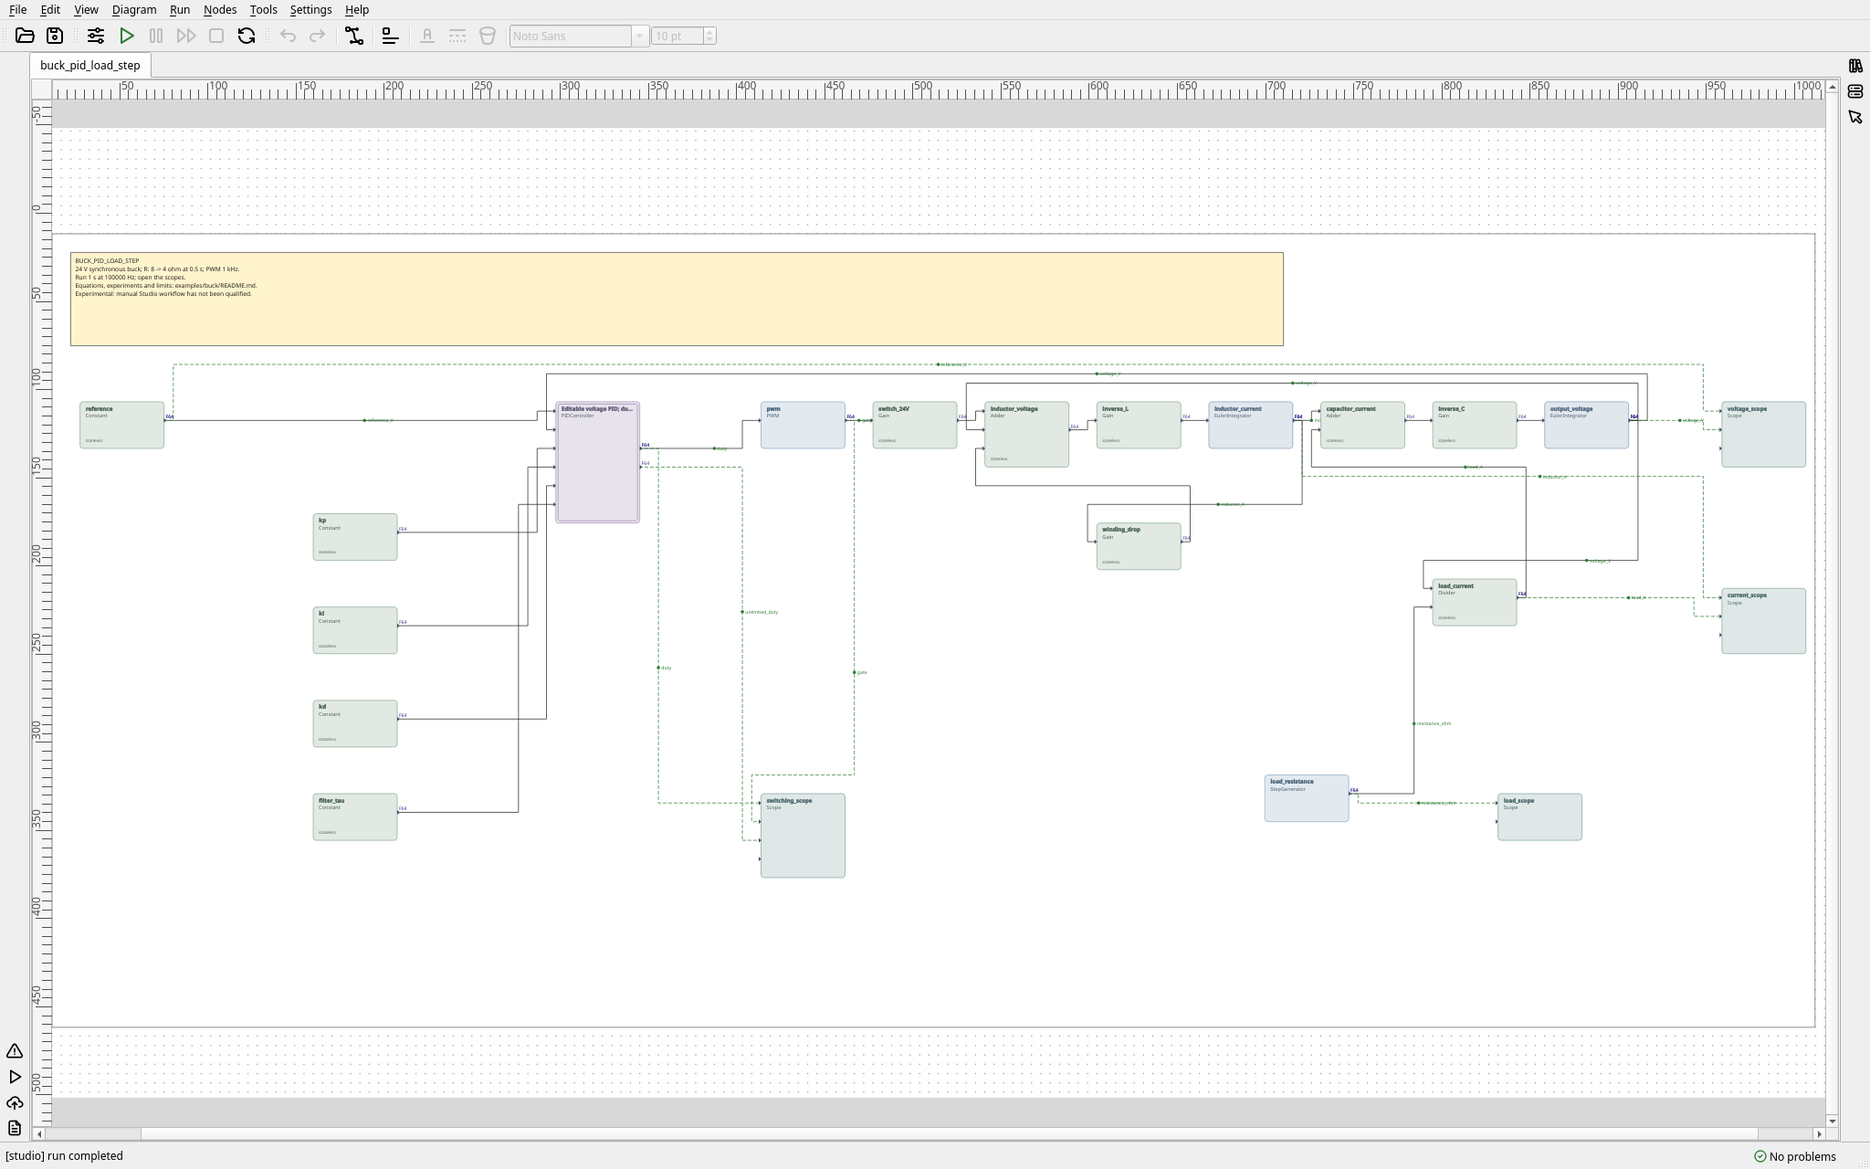
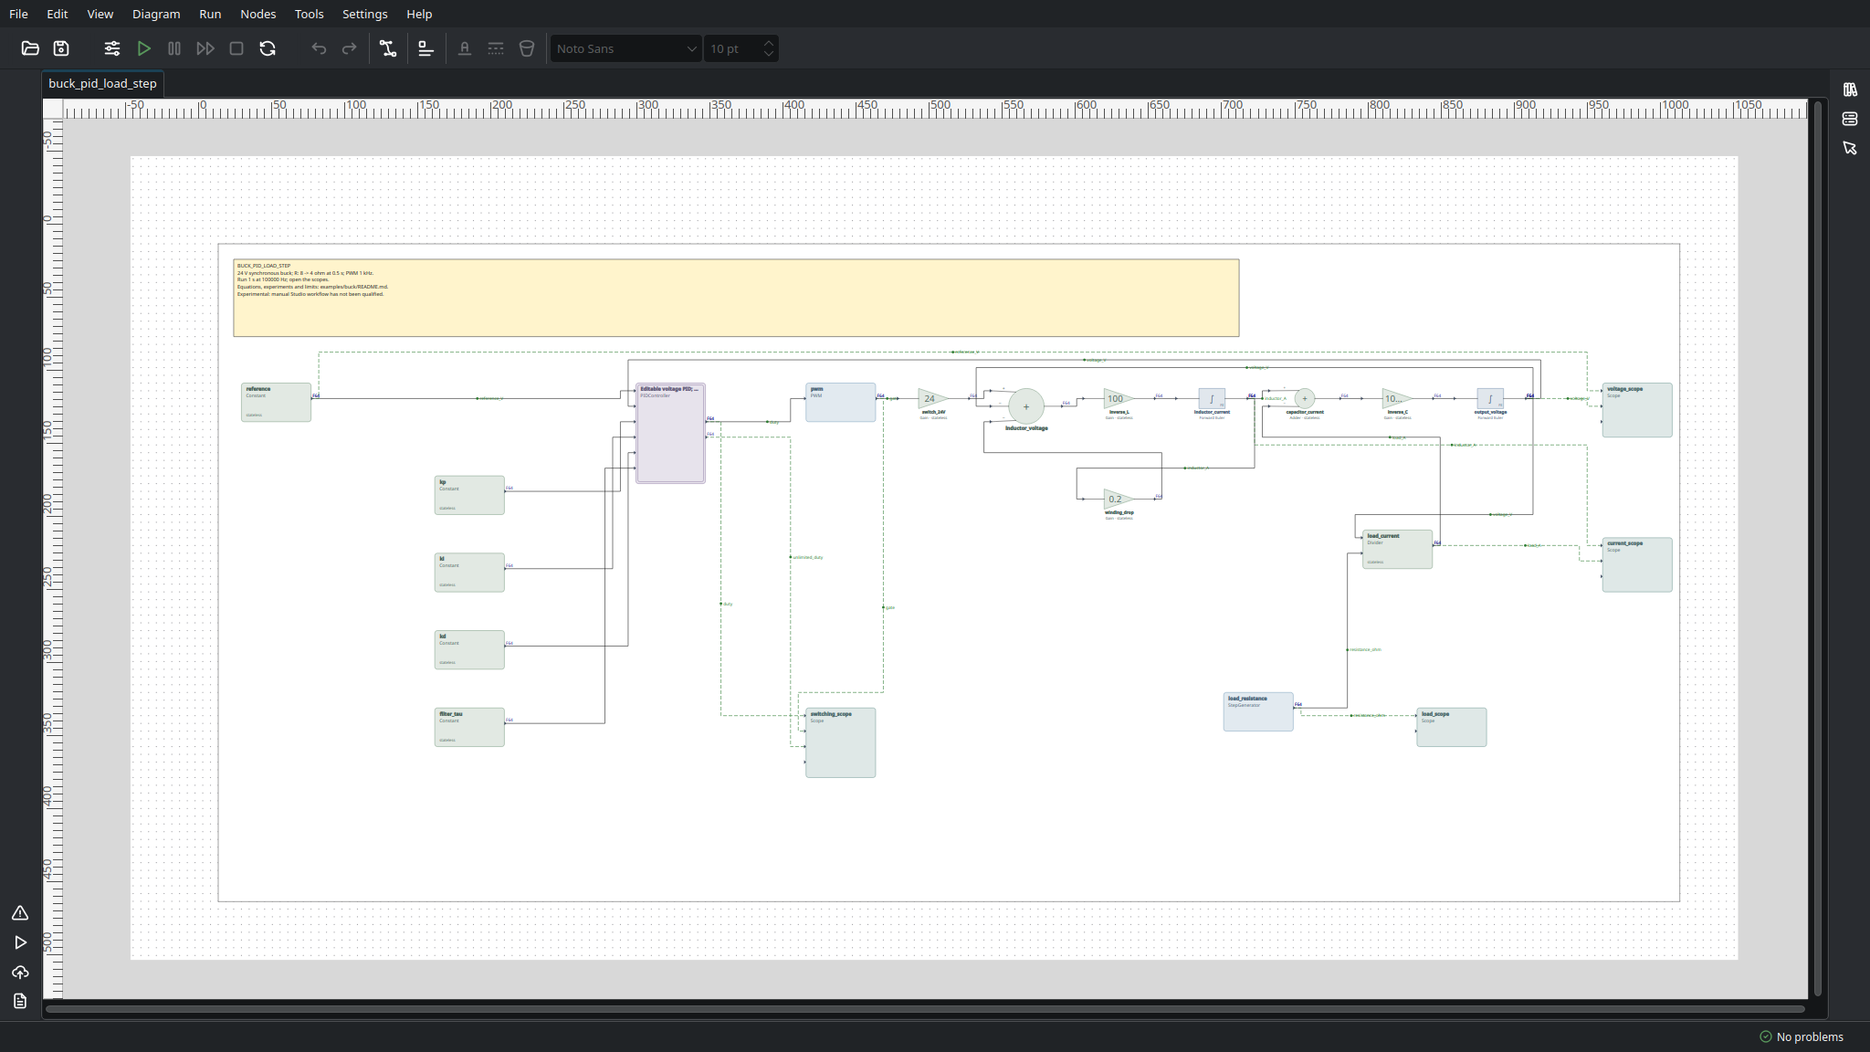
Refresh GitHub README and Studio screenshot tour

diff --git a/s7l2/s7studio/tests/gui/workflows_test.cpp b/s7l2/s7studio/tests/gui/workflows_test.cpp
@@ -261,7 +261,7 @@ private slots:
     void init() {
         QSettings{}.clear();
         window_ = std::make_unique<TestWindow>();
-        window_->resize(1100, 750);
+        window_->resize(qEnvironmentVariableIsSet("S7_README_SCREENSHOTS") ? QSize(2048, 1152) : QSize(1100, 750));
         window_->show();
         QVERIFY(QTest::qWaitForWindowExposed(window_.get()));
     }
@@ -328,15 +328,20 @@ private slots:
         for (int i = 0; i < contents->count(); ++i) matches += !contents->item(i)->isHidden();
         QVERIFY(matches >= 2);
         search->clear();
+        for (int i = 0; i < contents->count(); ++i)
+            if (contents->item(i)->text().startsWith("Integrators, delays")) contents->setCurrentRow(i);
         browser->setSource(QUrl("qrc:/s7studio/help/docs/INTEGRATORS.md"), QTextDocument::MarkdownResource);
+        if (qEnvironmentVariableIsSet("S7_README_SCREENSHOTS")) help->resize(1120, 1100);
         QVERIFY(browser->toPlainText().contains("BackwardEulerIntegrator"));
         QVERIFY2(browser->toPlainText().contains("frequency warping", Qt::CaseInsensitive),
                  qPrintable(browser->toPlainText().right(4000)));
         capture(help, "integrators", true);
         const auto mapping = browser->document()->find("Exact sampling and numerical s-to-z maps");
         QVERIFY(!mapping.isNull());
-        browser->setTextCursor(mapping);
+        auto position = mapping; position.clearSelection();
+        browser->setTextCursor(position);
         browser->ensureCursorVisible();
+        browser->verticalScrollBar()->setValue(browser->verticalScrollBar()->value() + browser->cursorRect().top() - 12);
         capture(help, "integrator-mappings", true);
         QVERIFY(QMetaObject::invokeMethod(browser, "anchorClicked", Qt::DirectConnection,
             Q_ARG(QUrl, QUrl("INTEGRATOR_REFERENCES.md"))));
@@ -346,6 +351,8 @@ private slots:
             QImage image(QStringLiteral(":/s7studio/help/docs/images/%1.png").arg(QString::fromUtf8(name)));
             QVERIFY2(!image.isNull(), name);
         }
+        for (int i = 0; i < contents->count(); ++i)
+            if (contents->item(i)->text() == "Basic block symbols") contents->setCurrentRow(i);
         browser->setSource(QUrl("qrc:/s7studio/help/docs/DIAGRAM_SYMBOLS.md"), QTextDocument::MarkdownResource);
         QVERIFY(browser->toPlainText().contains("current input"));
         QVERIFY(browser->toPlainText().contains("R/(1−R)"));
@@ -2311,6 +2318,7 @@ private slots:
     void bundledExamplesRunAndRender() {
         if (qEnvironmentVariableIsEmpty("S7_GUI_EXAMPLES")) QSKIP("Bundled examples run in the s7studio_gui_examples tests");
         QFETCH(QString, diagram);
+        const bool publication = qEnvironmentVariableIsSet("S7_README_SCREENSHOTS");
         const double seconds = documentedSeconds(diagram);
         QVERIFY2(seconds > 0, "every bundled example needs a documented run in documentedSeconds()");
         const auto path = QString(S7_GUI_EXAMPLES_DIR) + '/' + diagram;
@@ -2348,7 +2356,10 @@ private slots:
             if (type == "PhaseTrajectory3D" && !graphicsAvailable_) continue;
             auto* viewer = manager->openObserver(type, id);
             QVERIFY2(viewer, qPrintable(type + ' ' + id));
-            viewer->widget()->resize(1100, 650);
+            viewer->widget()->resize(publication ? QSize(1320, 820) : QSize(1100, 650));
+            if (publication) {
+                if (auto* retention = viewer->widget()->findChild<QSpinBox*>("live.samples")) retention->setValue(32768);
+            }
             viewers.push_back({type + '-' + id, viewer});
         }
         QVERIFY(!viewers.isEmpty());
@@ -2375,6 +2386,16 @@ private slots:
         const auto base = QString(diagram).replace('/', '_').remove(".s7diagram");
         QStringList problems;
         for (const auto& [name, viewer] : viewers) {
+            if (publication && viewer->source()) {
+                const auto status = viewer->source()->status();
+                QVERIFY2(!status.incomplete(), qPrintable(status.storageError + ' ' + status.runError));
+                QCOMPARE(status.captureDropped, std::uint64_t(0));
+            }
+            if (dynamic_cast<s7studio::ui::PhaseTrajectory3DViewWindow*>(viewer) ||
+                dynamic_cast<s7studio::ui::PhasePortraitViewWindow*>(viewer)) {
+                QTRY_VERIFY(viewer->source() && viewer->source()->status().finished);
+                while (viewer->refreshSource()) {}
+            }
             if (auto* surface = dynamic_cast<s7studio::viewers::SurfaceWindow*>(viewer)) {
                 while (surface->refreshSource()) {}
                 QVERIFY2(surface->error().isEmpty(), qPrintable(surface->error()));
@@ -2403,6 +2424,15 @@ private slots:
             }
             QTest::qWait(400);
             auto* widget = viewer->widget();
+            if (publication) {
+                if (auto* trajectory = dynamic_cast<s7studio::ui::PhaseTrajectory3DViewWindow*>(viewer)) {
+                    trajectory->setViewPreset(s7studio::ui::PhaseTrajectory3DViewWindow::ViewPreset::Perspective);
+                    auto* quick = widget->findChild<QQuickWidget*>(); QVERIFY(quick && quick->rootObject());
+                    auto* camera = quick->rootObject()->findChild<QObject*>("viewer.camera"); QVERIFY(camera);
+                    QVERIFY(camera->setProperty("z", 370.));
+                }
+                if (auto* fit = widget->findChild<QPushButton*>("live.timeScale.fitRun")) fit->click();
+            }
             if(diagram=="frequency_response/rlc.s7diagram" && dynamic_cast<s7studio::viewers::ResponseWindow*>(viewer)) {auto* reference=widget->findChild<QCheckBox*>("response.referenceModel");QVERIFY(reference);reference->setChecked(true);auto* cursor=widget->findChild<QDoubleSpinBox*>("response.frequency");QVERIFY(cursor);cursor->setValue(5);}
             widget->raise();
             const auto checkPlots = [&](const QString& view) {
@@ -2419,6 +2449,12 @@ private slots:
             const int pages = tabs ? tabs->count() : 1;
             for (int page = 0; page < pages; ++page) {
                 if (tabs) tabs->setCurrentIndex(page);
+                if (publication && diagram == "signal_measurement/am_coherent_detection_live.s7diagram" &&
+                    name.endsWith("carrier_scope") && tabs && tabs->tabText(page) == "Spectrum") {
+                    auto* channel = widget->findChild<QComboBox*>("spectrum.channel"); QVERIFY(channel);
+                    const auto index = channel->findText("carrier_scope/carrier", Qt::MatchStartsWith);
+                    QVERIFY(index >= 0); channel->setCurrentIndex(index);
+                }
                 QTest::qWait(page ? 1200 : 400);
                 const auto view = tabs ? tabs->tabText(page).replace(' ', "").replace('/', "") : QStringLiteral("view");
                 if (!dynamic_cast<s7studio::ui::PhaseTrajectory3DViewWindow*>(viewer)) checkPlots(view);
@@ -2434,7 +2470,12 @@ private slots:
                 presentation->setCurrentIndex(0);
             }
         }
-        // The main window with its Observers dock previews.
+        // Normal captures include observer previews; publication captures fit
+        // the complete graph in the larger window.
+        if (publication) {
+            for (auto* dock : window_->findChildren<QDockWidget*>()) dock->hide();
+            action("action.fitDiagram")->trigger();
+        }
         capture(window_.get(), base + "-studio");
         for (const auto& problem : problems) qWarning().noquote() << "plot range:" << problem;
         if (qEnvironmentVariableIsEmpty("S7_EXAMPLES_REPORT_ONLY")) QVERIFY2(problems.isEmpty(), qPrintable(problems.join('\n')));

diff --git a/screenshots/README.md b/screenshots/README.md
@@ -1,9 +1,10 @@
 # S7 Studio in action
 
-Five screenshots from three bundled examples in the S7 0.1.2 preview:
-nonlinear dynamics, feedback control, and signal processing. These are actual
-Studio runs using its bundled causal graph runtime; no separate runtime
-service is needed.
+Six screenshots from the current S7 source: three bundled examples covering
+nonlinear dynamics, feedback control and signal processing, plus the integrated
+mathematical help. These are actual Studio windows and runs using its bundled
+causal graph runtime; no separate runtime service is needed. The 0.1.2 release
+archives are an earlier preview; these captures include the newer block shapes.
 
 To reproduce them, choose **File → Example Diagrams…**, open the named diagram,
 and set the duration and rate in **Run Configuration**. Double-click an observer
@@ -19,7 +20,8 @@ for inspection.
 The **3D phase trajectory** viewer plots the three coupled states of the Lorenz
 system. The trajectory winds around two lobes, and the red marker identifies
 the newest point. Drag to rotate, scroll to zoom, or use XY, XZ and YZ for
-projections. This capture uses a rotated, zoomed view after the complete run.
+projections. This capture uses a zoomed perspective view after the run and
+recorded-history loading have both completed.
 
 **Try it:** open `lorenz/lorenz_attractor.s7diagram`, run **40 seconds at
 4 kHz**, then open `base_trajectory`. The diagram also contains a second
@@ -35,7 +37,8 @@ trajectory is not a claim of pointwise numerical accuracy.
 
 The diagram describes an ideal 24 V synchronous buck converter regulated
 toward **12 V**. PWM, explicit current and voltage integrators, and an editable
-PID schema form the feedback loop. Observation elements expose voltage,
+PID schema form the feedback loop. Gain triangles, signed summing circles and
+integrator method codes identify the basic operations. Observation elements expose voltage,
 current, switching and load signals. The model is assembled from connected
 elements; double-click the PID instance to inspect its internal graph.
 
@@ -65,11 +68,11 @@ a hardware design.
 The **Live Oscilloscope** Time view compares the original **2 Hz** message
 with the recovered message. A coherent detector mixes the AM signal with the
 same **100 Hz** carrier used by the transmitter, then applies a low-pass
-filter. Startup, a small delay and attenuation in the recovered trace show the
-filter's behavior.
+filter. Startup, a small delay and residual carrier ripple in the recovered
+trace show the filter's behavior.
 
 **Try it:** open `signal_measurement/am_coherent_detection_live.s7diagram`,
-open `message_scope`, and run **2 seconds at 12,800 Hz**. For this capture,
+open `message_scope`, and run **2 seconds at 10,000 Hz**, its bundled rate. For this capture,
 **Analysis retention → Raw samples / channel** was set to **32,768 before
 starting**. The example uses seven bounded live channels and no full-run
 recording channels. The Time view also supports continuous runs and freezing
@@ -77,12 +80,14 @@ the display for inspection.
 
 ## 5. AM detection: measuring the carrier spectrum
 
-![Live Oscilloscope Spectrum view with a peak at 100 Hz and peak amplitude 1, using a 4096-point periodic Hann window.](05-am-live-spectrum.png)
+![Live Oscilloscope Spectrum view of the 100 Hz carrier using a 4096-point periodic Hann window.](05-am-live-spectrum.png)
 
 The same example's `carrier_scope` provides frequency analysis in the
-**Spectrum** tab. Selecting the pure `carrier` channel gives a **100 Hz** peak
-with **peak amplitude 1**. The **4,096-point periodic Hann window** at
-12,800 Hz gives **3.125 Hz bin spacing**; the plot is zoomed to 50–150 Hz.
+**Spectrum** tab. Selecting the pure `carrier` channel shows the **100 Hz**
+carrier with **peak amplitude approximately 1**. The **4,096-point periodic Hann window** at
+10,000 Hz gives **2.44140625 Hz bin spacing**; its nearest bin to the carrier
+is at **100.09765625 Hz**. The carrier is between bins, so the windowed peak
+need not equal its ideal amplitude exactly. The plot shows the useful low-frequency range.
 This is the unmodulated carrier channel, whose amplitude is dimensionless.
 
 **Open:** `carrier_scope` → **Spectrum**, then choose
@@ -93,9 +98,50 @@ available in this window for inspecting modulation in the Time view.
 · [Spectrum controls](../s7l2/docs/STUDIO_SPECTRUM.md)
 · [All bundled examples](../s7l2/docs/STUDIO_EXAMPLES.md).
 
----
+## 6. Mathematical help: block notation and equations
 
-Captured from the 0.1.2 preparation revision `c940f5c` on Linux with Qt 6.11.2,
-using a private virtual display and Mesa software rendering. The PNGs show
-Studio's rendered windows. These examples illustrate workflows; their linked
-articles describe the numerical checks and limits.
+![Studio Help presents the gain, signed sum, product, delay, accumulator and integrator symbols with their MIT and Siebert references.](06-block-symbol-help.png)
+
+Studio's offline help explains the displayed notation, actual recurrences and
+initial conditions. The block guide distinguishes S7's current-input accumulator
+from Siebert's earlier-input convention and labels each integration method.
+The integrator guide covers pole mappings, explicit feedback realizations and
+frequency warping, with MIT/Siebert references. Press **F1**, then choose
+**Basic block symbols** or **Integrators, delays, and s/z mappings**.
+
+[Integrator guide](../s7l2/docs/INTEGRATORS.md)
+· [Block notation and equations](../s7l2/docs/DIAGRAM_SYMBOLS.md).
+
+## Capture provenance and reproduction
+
+Captured on 2026-11-17 from runtime/UI revision `ec6117b` on Fedora 45 with
+Qt 6.11.2 and Mesa llvmpipe, using a private virtual display. Capture-only
+workflow changes in this update wait for recorded phase history, select the
+carrier channel, enlarge windows and set retention/camera framing. The PNGs
+come directly from Studio's rendered windows. These examples illustrate
+workflows; their linked articles describe the numerical checks and limits.
+The capture workflow checks the recorded source for capture loss or storage
+failure. Visible notices about skipped preview updates concern screen refresh;
+they do not themselves indicate lost recorded samples.
+
+To regenerate the source captures from `s7l2/`:
+
+```sh
+cmake --build build-release --target s7studio_gui_workflows_test s7studio_gui_capture --parallel 2
+S7_README_SCREENSHOTS=1 S7_GUI_EXAMPLES=0/1 \
+S7_USABILITY_CAPTURE_DIR=/tmp/s7-readme-captures \
+python3 tools/run_gui_test.py --artifacts /tmp/s7-readme-artifacts \
+  --capture build-release/s7studio/s7studio_gui_capture --graphics \
+  --screen-size 2200x1400 --timeout 240 \
+  -- build-release/s7studio/s7studio_gui_workflows_test \
+  bundledExamplesRunAndRender:lorenz/lorenz_attractor.s7diagram \
+  bundledExamplesRunAndRender:buck/buck_pid_load_step.s7diagram \
+  bundledExamplesRunAndRender:signal_measurement/am_coherent_detection_live.s7diagram \
+  helpAndAbout
+```
+
+Choose the named viewer captures from that directory; the diagram image is
+`buck_buck_pid_load_step-studio.png`, and the help image is
+`basic-symbols.png`. Inspect every PNG before replacing the published
+files. The test report records run failures, skipped graphics and plot-range
+problems; a screenshot alone is not numerical validation.

diff --git a/s7l2/README.md b/s7l2/README.md
@@ -10,6 +10,11 @@ and their experiment guides. See [Studio screenshots](../screenshots/README.md)
 for three bundled examples with diagrams, recorded Scope results, and Live
 Oscilloscope views.
 
+The current source includes [mathematical block symbols](docs/DIAGRAM_SYMBOLS.md),
+separate forward/backward Euler elements and expanded offline integrator help.
+The screenshots show the current source; the linked 0.1.2 release archives
+describe an earlier preview and have their own validation record.
+
 S7 is a platform for constructing, executing, and observing distributed causal systems: a schema of elements and connections is validated, compiled into an executable graph, and stepped by a headless runtime. Studio is an optional GUI client.
 
 The project is in pre-MVP development. Backward compatibility of APIs, file formats, and protocols is not maintained yet.
@@ -49,7 +54,7 @@ Documentation map: `docs/INDEX.md`; the language-neutral documentation (model, a
 - Lossless typed data streams between nodes (`../doc/S7_Network_Wire_Protocol_v1.md`): exactly once and in order while both processes run, backpressure, faults reported and recoverable, each stream bound to its producer and consumer nodes, timestamp profiles.
 - Diagrams deployed across nodes: elements placed on nodes, streams assigned between them, each node running its part (Studio Run > Deploy to Nodes, `s7ctl deploy`).
 - Conformance data for other implementations of both protocols (`s7transport/tests/fixtures/`, `s7runtime/tests/fixtures/`), with a second wire decoder in Python.
-- Studio diagram editing, element library, parameter dialogs, local runs with Scope plots, diagram/schema/library files, headless node discovery with certificate-based trust.
+- Studio diagram editing with mathematical primitive symbols, element library, parameter dialogs, local runs with recorded Scope, Live Oscilloscope, Phase Portrait and 3D trajectory views, diagram/schema/library files, headless node discovery with certificate-based trust.
 
 ## Not implemented yet
 
@@ -117,4 +122,4 @@ Runtime state (node identity, peer cache, active deployment) is stored in the di
 
 ## License
 
-The runtime and the plugin SDK (`s7core`, `s7io`, `s7observe`, `s7net`, `s7transport`, `s7runtime`, `s7noise`) are LGPL-3.0-or-later; Studio and `s7ctl` are GPL-3.0-or-later with a permission to load plugins under any licence; tests and tools are GPL-3.0-or-later. Examples are CC0-1.0, `s7spectral` is MIT-0, and documentation is CC-BY-4.0. See [`../LICENSING.md`](../LICENSING.md).
+The runtime and the plugin SDK (`s7core`, `s7io`, `s7observe`, `s7net`, `s7transport`, `s7runtime`, `s7noise`, `s7hardware`, `s7audio`, `s7sdr`) are LGPL-3.0-or-later; Studio and `s7ctl` are GPL-3.0-or-later with a permission to load plugins under any licence; tests and tools are GPL-3.0-or-later. Examples are CC0-1.0, `s7spectral` is MIT-0, and documentation is CC-BY-4.0. See [`../LICENSING.md`](../LICENSING.md).

diff --git a/README.md b/README.md
@@ -2,6 +2,20 @@
 
 S7 is a platform for building, running and observing distributed causal systems: signal processing, software-defined radio, distributed sensing, simulation of dynamic systems. A system is a schema of elements and connections. It is validated, compiled into an executable graph and stepped by headless runtime nodes, which may sit on different machines and exchange typed data streams. Studio is an optional GUI for drawing diagrams, deploying them to nodes and watching them run.
 
+Studio models dynamics as explicit networks of integrators, gains, summing
+junctions and delays, following the analog-computer approach that inspired S7.
+Forward and backward Euler are separate educational elements; the built-in
+help explains their recurrences, initial conditions, trapezoidal integration
+and the relation between the s and z planes, with MIT and Siebert references.
+
+[![Buck converter model in S7 Studio, using gain triangles, signed summing circles and integrator method labels.](screenshots/02-buck-diagram.png)](screenshots/README.md)
+
+See [the screenshot tour](screenshots/README.md) for actual runs of a Lorenz
+attractor, a controlled buck converter and an AM detector. Public sound/SDR
+modules provide independent PortAudio, native PipeWire and SoapySDR backends;
+their current execution profile is documented in the
+[hardware I/O guide](s7l2/docs/HARDWARE_IO.md).
+
 Causality comes before clock time: the result of a schema is defined by its graph, not by the timing of the machines that run it. Network boundaries are explicit elements, and nodes trust each other through X.509 identities over mutual TLS.
 
 The project is in pre-MVP development. APIs, file formats and protocols may still change without backward compatibility.
@@ -20,6 +34,8 @@ The implementations interoperate through the protocols in `doc/`. Their conforma
 ## Where to start
 
 - See Studio running three bundled examples: [screenshots and descriptions](screenshots/README.md), including Scope and Live Oscilloscope views.
+- Build on Ubuntu 26.04/26.10 or Fedora 45: [dependency installers and options](s7l2/docs/BUILD_DEPENDENCIES.md).
+- Study the mathematical blocks: [symbol notation](s7l2/docs/DIAGRAM_SYMBOLS.md) and [integrators, delays and s/z maps](s7l2/docs/INTEGRATORS.md).
 - What S7 is and why: [`doc/S7_VISION.md`](doc/S7_VISION.md), then [`doc/S7_Formal_Model.md`](doc/S7_Formal_Model.md).
 - Build and run the C++ runtime and Studio: [`s7l2/README.md`](s7l2/README.md), with its docs index in [`s7l2/docs/INDEX.md`](s7l2/docs/INDEX.md).
 - Run a Python node: [`s7py/README.md`](s7py/README.md).

diff --git a/s7l2/docs/STUDIO_GUI_TESTING.md b/s7l2/docs/STUDIO_GUI_TESTING.md
@@ -18,6 +18,13 @@ package `xdotool`) to send XTest mouse events to the wrapper's private Xvfb
 display. Those gesture cases explicitly skip when it is unavailable. The MIME
 rejection checks still run. No drag events are sent to the user's desktop.
 
+For the [published screenshot tour](../../screenshots/README.md), the selected
+example workflows accept `S7_README_SCREENSHOTS=1`. This enlarges windows,
+frames the diagram/camera, retains 32,768 live samples per channel and selects
+the AM carrier for Spectrum. It changes capture presentation, not the model
+or its rate. Recorded phase history is fully loaded before capture in either
+mode. The screenshot guide contains the reproducible command and provenance.
+
 ```bash
 cmake -S . -B build -DS7_BUILD_STUDIO=ON -DS7_BUILD_GUI_REGRESSION_TESTS=ON
 cmake --build build --target build-tests --parallel 2
